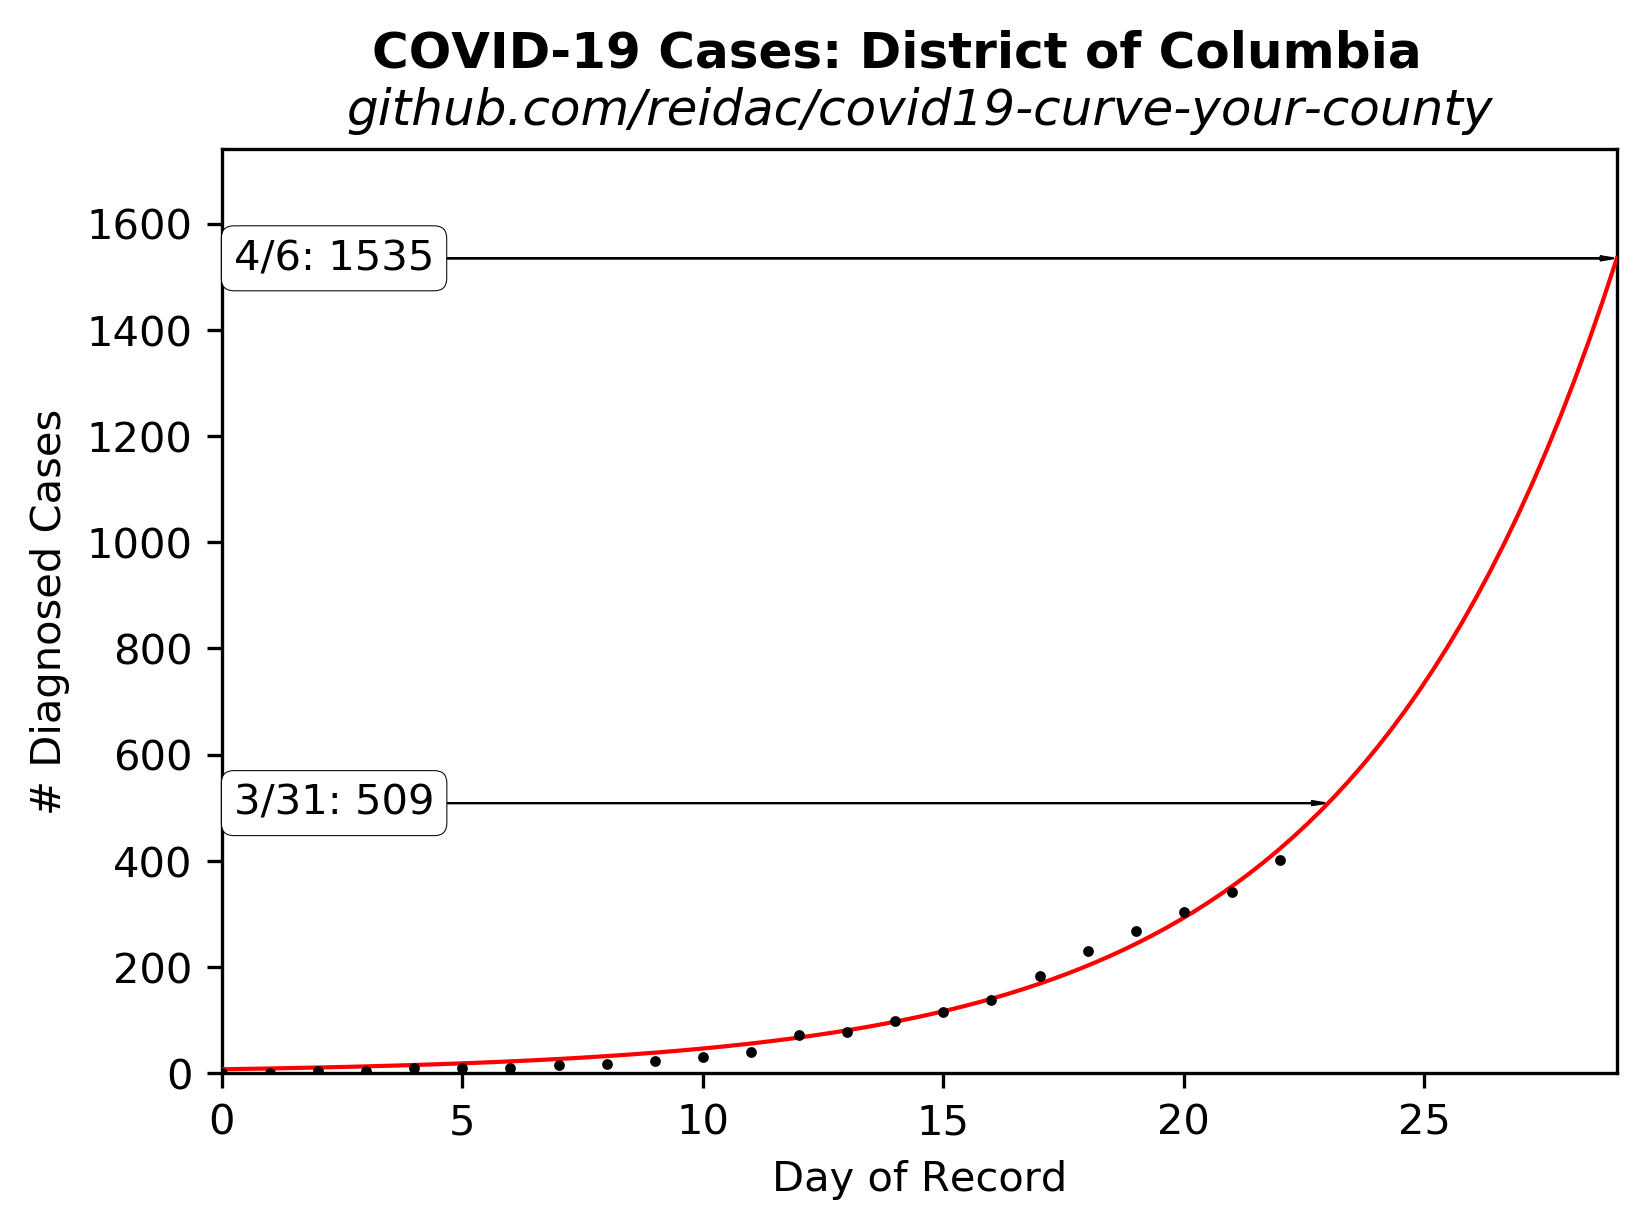
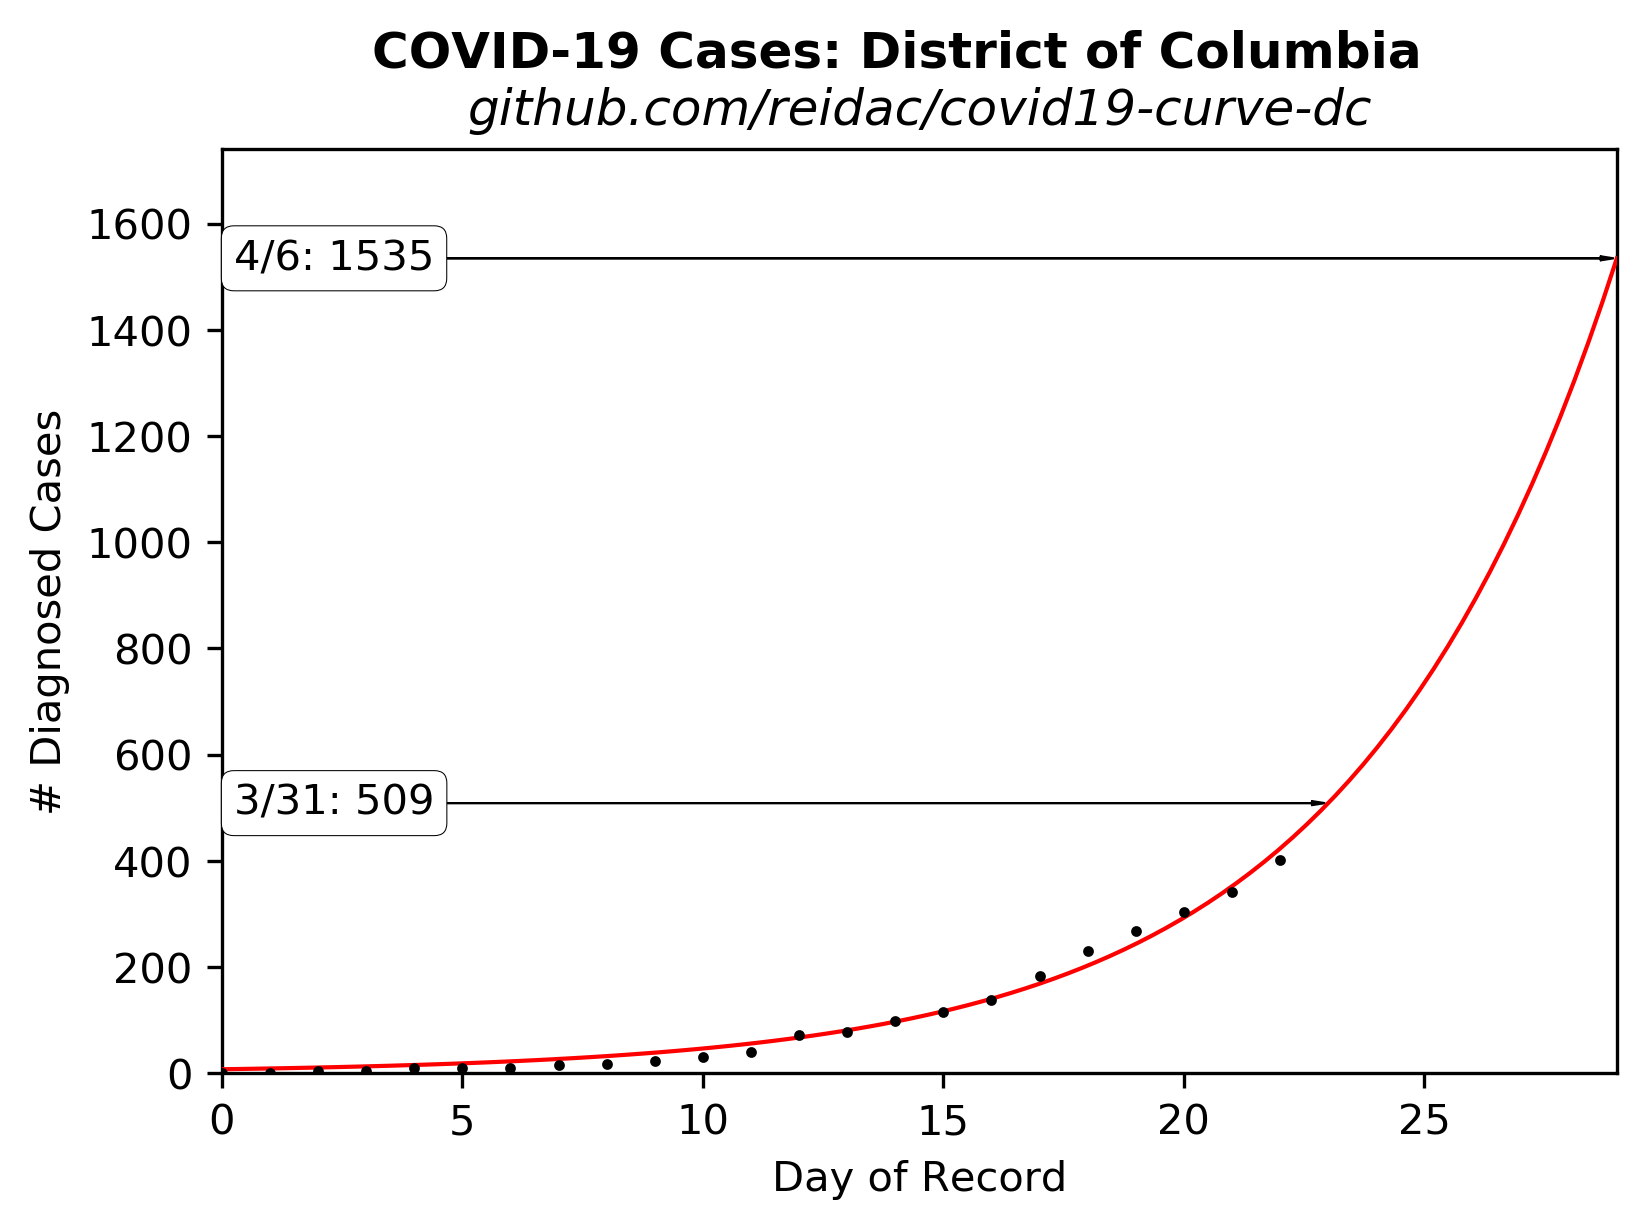
Modified image title to reflect changed repo name.

Changed region(s): [[0.2169, 0.0618, 0.8985, 0.1237]]

diff --git a/exponential.py b/exponential.py
@@ -16,7 +16,7 @@ def model(p, x):
 
 fig = plt.figure(figsize=(6, 4))
 plt.suptitle("COVID-19 Cases: District of Columbia", fontweight="bold")
-plt.title("github.com/reidac/covid19-curve-your-county", style="oblique")
+plt.title("github.com/reidac/covid19-curve-dc", style="oblique")
 plt.xlabel("Day of Record")
 plt.ylabel("# Diagnosed Cases")
 
